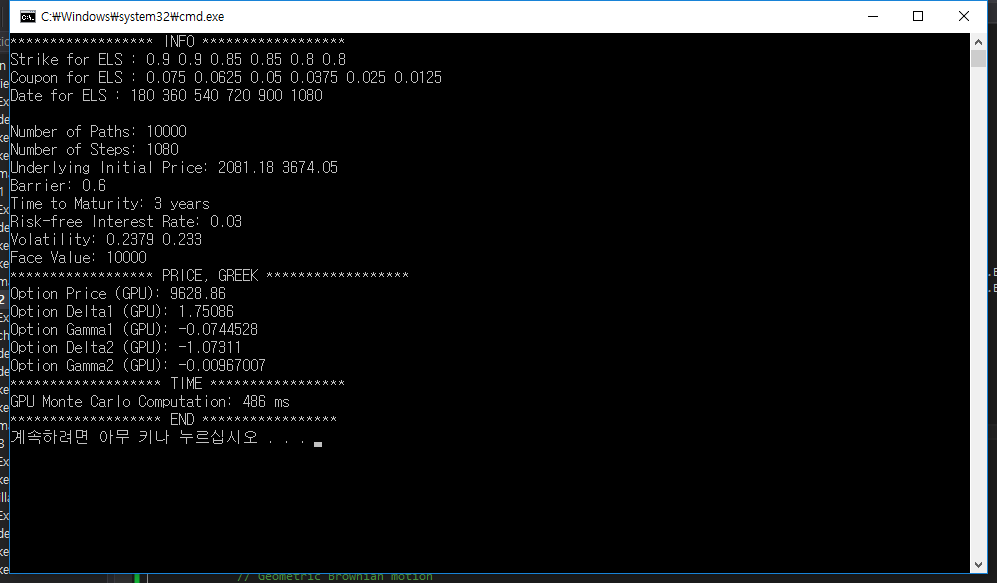
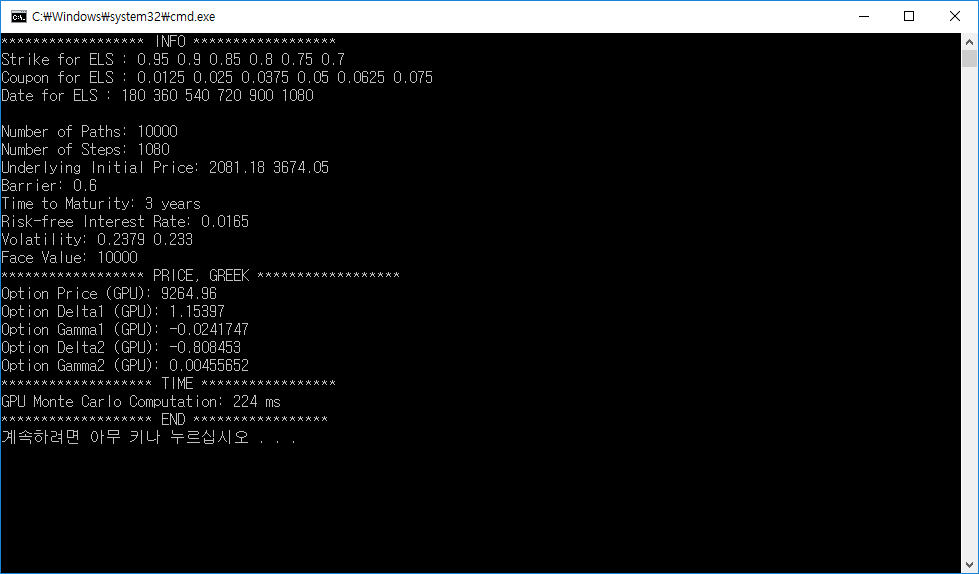
Two-asset ELS

Changed region(s): [[0.0, 0.0, 1.0, 1.0]]

diff --git a/two-asset ELS/code/main.cpp b/two-asset ELS/code/main.cpp
@@ -24,12 +24,13 @@ int main() {
 		const double B = 0.6;
 		const double S0_1 = 2081.18; const double S0_2 = 3674.05;
 		const double sig1 = 0.2379; const double sig2 = 0.2330;
-		const double r = 0.03;
-		const double dummy = 0.045;
+
+		const double r = 0.0165;
+		const double dummy = 0.075;	
 
 		// this exmample set 6 observation dates.
-		const double stk[] = { 0.90, 0.90, 0.85, 0.85, 0.80, 0.80 };
-		const double coupon[] = { 0.075, 0.0625, 0.05, 0.0375, 0.025, 0.0125 };
+		const double stk[] = { 0.95, 0.9, 0.85, 0.8, 0.75, 0.7 };
+		const double coupon[] = { 0.0125, 0.025, 0.0375, 0.05, 0.0625, 0.075 };
 		const double date[] = { ceil(N_STEPS * 1.0 / length), ceil(N_STEPS * 2.0 / length),
 			ceil(N_STEPS * 3.0 / length), ceil(N_STEPS * 4.0 / length),
 			ceil(N_STEPS * 5.0 / length), ceil(N_STEPS * 6.0 / length) };
